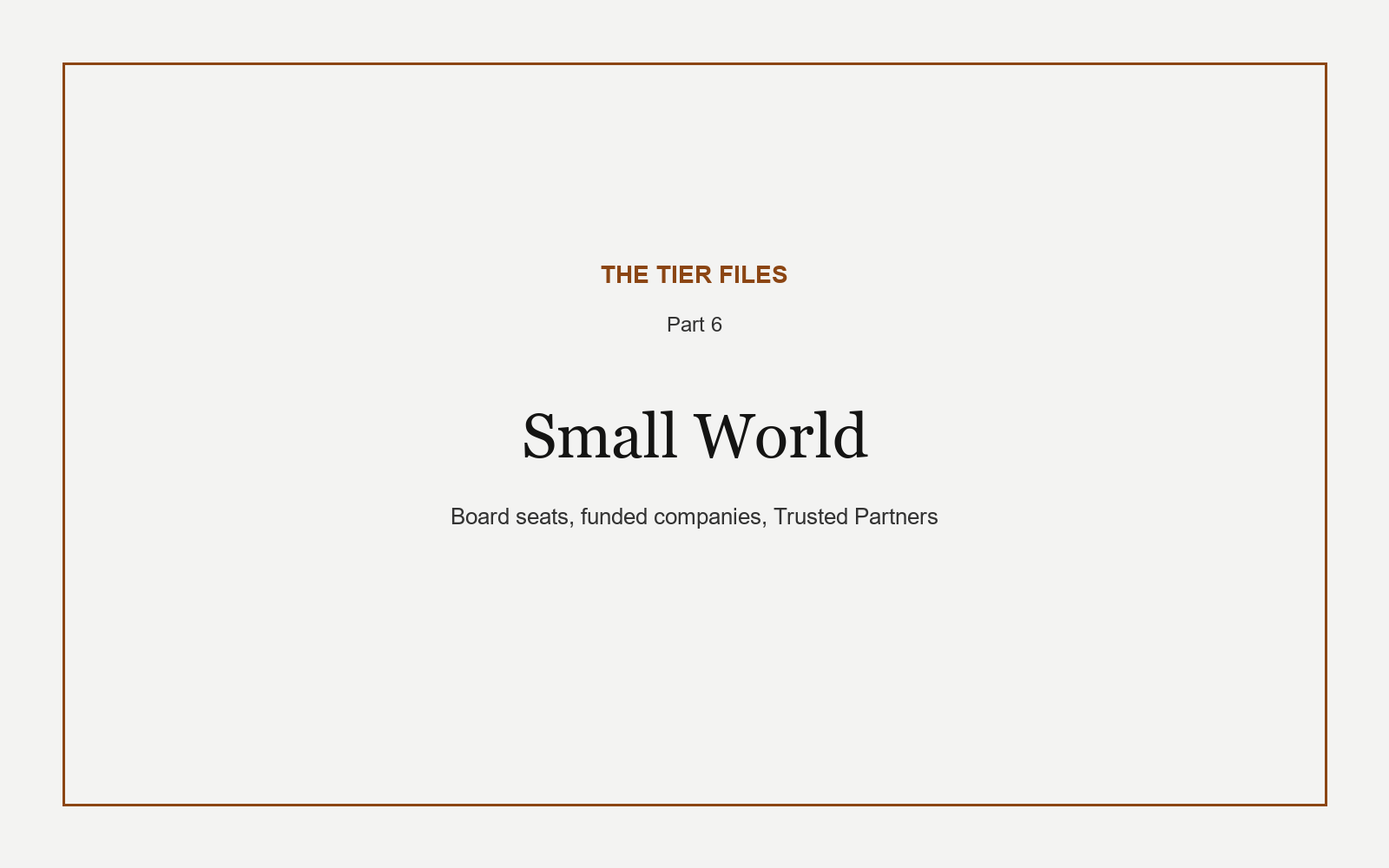
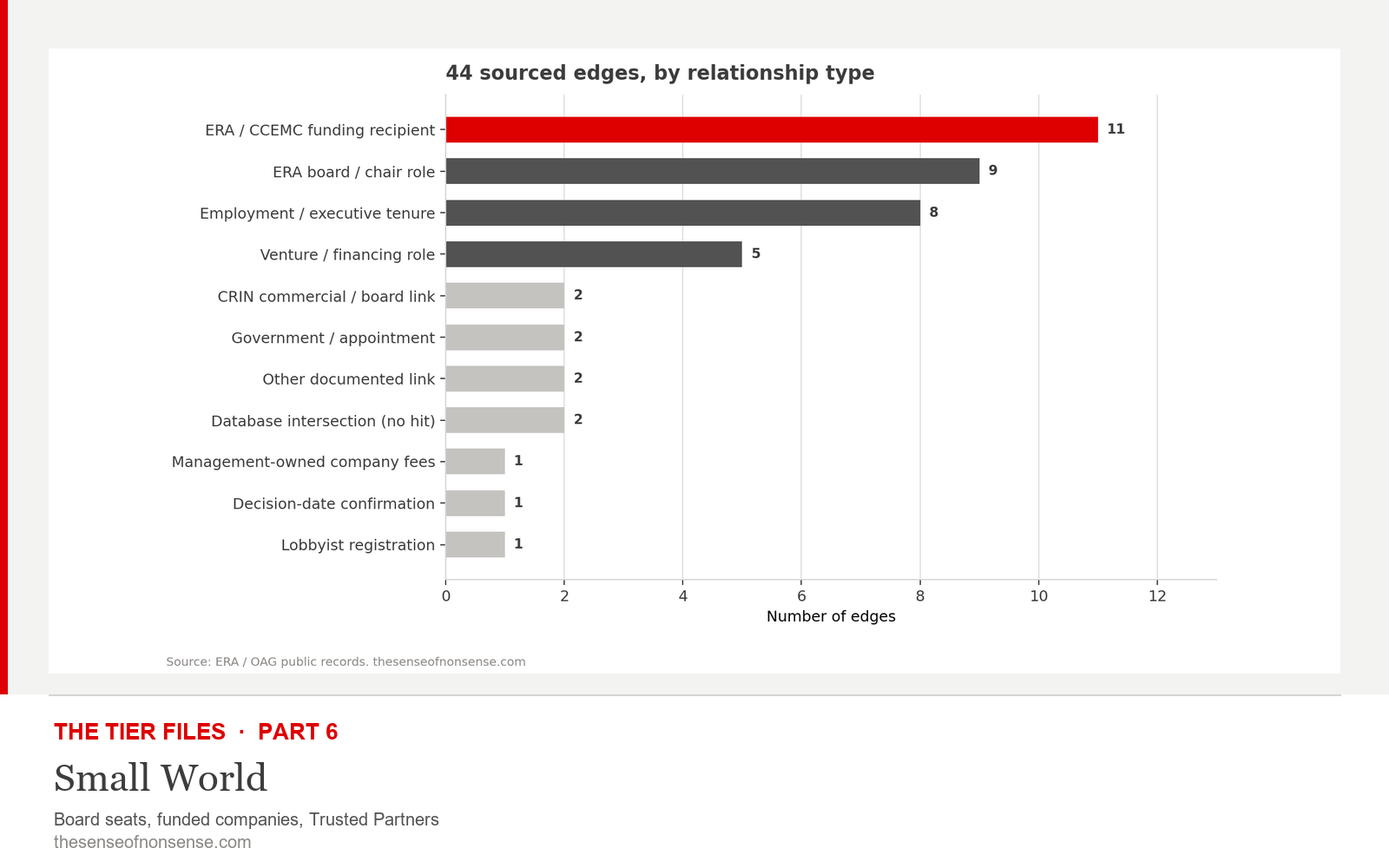
Align both series to the Part 1 standard: pull quotes, teasers, chart palette.
Ghost Lives gains Part 1-style pull quotes and a cleaner series teaser; TIER concession headings match; Parts 5-7 diagrams and covers move from the draft brown/dark palettes to the site red/grey editorial style.

diff --git a/scripts/restyle-p5-p7-charts.py b/scripts/restyle-p5-p7-charts.py
@@ -1,0 +1,235 @@
+"""Restyle Part 5-7 diagrams and covers to the site red/grey editorial palette.
+
+Brings p5-claim-layers, p6-edge-types, p6-pipeline, p7-two-eras, and the
+Part 6 / Part 7 covers in line with the charts in Parts 1-4 and Ghost Lives
+(regen-tier-charts.py style).
+"""
+from __future__ import annotations
+
+from pathlib import Path
+
+import matplotlib.pyplot as plt
+from matplotlib.patches import FancyBboxPatch, FancyArrowPatch
+from PIL import Image, ImageDraw, ImageFont
+
+ROOT = Path(__file__).resolve().parents[1]
+SERIES = ROOT / "content" / "series" / "the-tier-files"
+P5 = SERIES / "part-5-paid-in-alberta-claimed-everywhere"
+P6 = SERIES / "part-6-the-small-world"
+P7 = SERIES / "part-7-the-companies-the-board-pays-itself"
+
+BG = "#FFFFFF"
+WASH = "#F3F3F2"
+INK = "#3C3D3C"
+MUTED = "#8B8783"
+MUTED_LIGHT = "#C5C3C0"
+HIGHLIGHT = "#DE0000"
+SECONDARY = "#525252"
+GRID = "#D6D4D1"
+
+plt.rcParams.update({
+    "font.size": 10,
+    "axes.titlesize": 13,
+    "axes.labelsize": 10,
+    "xtick.labelsize": 10,
+    "ytick.labelsize": 10,
+    "legend.fontsize": 9,
+    "font.family": "sans-serif",
+    "font.sans-serif": ["DejaVu Sans", "Arial", "Helvetica"],
+})
+
+
+def style_ax(ax, title: str):
+    ax.set_facecolor(BG)
+    for spine in ("top", "right"):
+        ax.spines[spine].set_visible(False)
+    ax.spines["left"].set_color(GRID)
+    ax.spines["bottom"].set_color(GRID)
+    ax.tick_params(colors=INK, labelsize=10)
+    ax.set_title(title, loc="left", fontsize=13, fontweight="bold", color=INK, pad=10)
+
+
+def save(fig, path: Path, source: str):
+    fig.patch.set_facecolor(BG)
+    fig.tight_layout(rect=(0, 0.05, 1, 1))
+    fig.text(0.01, 0.012, source, fontsize=8, color=MUTED)
+    fig.savefig(path, dpi=180, facecolor=BG, edgecolor="none")
+    plt.close(fig)
+    print("wrote", path.relative_to(ROOT))
+
+
+def make_cover(chart_path: Path, out: Path, part: int, title: str, subtitle: str = ""):
+    chart = Image.open(chart_path).convert("RGB")
+    W, H = 1600, 1000
+    cover = Image.new("RGB", (W, H), WASH)
+    pad = 56
+    band_h = 200
+    area_w, area_h = W - 2 * pad, H - band_h - pad - 24
+    sw, sh = chart.size
+    scale = min(area_w / sw, area_h / sh)
+    nw, nh = int(sw * scale), int(sh * scale)
+    resized = chart.resize((nw, nh), Image.Resampling.LANCZOS)
+    panel = Image.new("RGB", (area_w, area_h), BG)
+    panel.paste(resized, ((area_w - nw) // 2, (area_h - nh) // 2))
+    cover.paste(panel, (pad, pad))
+    d = ImageDraw.Draw(cover)
+    d.rectangle([0, 0, 8, H], fill=HIGHLIGHT)
+    d.rectangle([0, H - band_h, W, H], fill=BG)
+    d.line([(pad, H - band_h), (W - pad, H - band_h)], fill=GRID, width=2)
+    try:
+        fk = ImageFont.truetype("C:/Windows/Fonts/arialbd.ttf", 26)
+        ft = ImageFont.truetype("C:/Windows/Fonts/georgia.ttf", 44)
+        fs = ImageFont.truetype("C:/Windows/Fonts/arial.ttf", 20)
+    except Exception:
+        fk = ft = fs = ImageFont.load_default()
+    y0 = H - band_h + 28
+    d.text((pad + 6, y0), f"THE TIER FILES  \u00b7  PART {part}", fill=HIGHLIGHT, font=fk)
+    d.text((pad + 6, y0 + 42), title, fill=INK, font=ft)
+    if subtitle:
+        d.text((pad + 6, y0 + 104), subtitle, fill=SECONDARY, font=fs)
+    d.text((pad + 6, H - 42), "thesenseofnonsense.com", fill=MUTED, font=fs)
+    cover.save(out, "PNG", optimize=True)
+    print("wrote", out.relative_to(ROOT))
+
+
+# --- Part 5: claim layers -------------------------------------------------
+fig, ax = plt.subplots(figsize=(10.5, 5.6))
+ax.set_xlim(0, 10)
+ax.set_ylim(0, 8.2)
+ax.axis("off")
+ax.set_title("Who gets to claim the tonne: three paper objects",
+             loc="left", fontsize=14, fontweight="bold", color=INK, pad=8)
+
+layers = [
+    ("1  ERA / provincial program claim",
+     "Portfolio KPI language: funded reductions booked toward Alberta climate results",
+     HIGHLIGHT),
+    ("2  Alberta Emission Offset Registry",
+     "Verified AEOR serials: TIER compliance instruments inside Alberta",
+     SECONDARY),
+    ("3  BC biomethane environmental attributes",
+     "FortisBC BPAs / GGRR: reductions booked into British Columbia climate machinery",
+     INK),
+]
+y = 6.1
+for head, sub, accent in layers:
+    ax.add_patch(FancyBboxPatch((0.55, y), 8.9, 1.7, boxstyle="square,pad=0",
+                                linewidth=1, edgecolor=GRID, facecolor=WASH))
+    ax.add_patch(FancyBboxPatch((0.55, y), 0.14, 1.7, boxstyle="square,pad=0",
+                                linewidth=0, facecolor=accent))
+    ax.text(0.95, y + 1.12, head, fontsize=12, fontweight="bold", color=accent, va="center")
+    ax.text(0.95, y + 0.48, sub, fontsize=9.5, color=INK, va="center")
+    y -= 2.15
+ax.text(5.0, 0.35, "One physical reduction \u00b7 concurrent claim systems \u00b7 no public mass balance between ledgers",
+        ha="center", fontsize=9.5, style="italic", color=SECONDARY)
+save(fig, P5 / "p5-claim-layers.png",
+     "Source: ERA guidelines, AEOR listings, BCUC orders. thesenseofnonsense.com")
+
+# --- Part 6: edge types ---------------------------------------------------
+cats = [
+    ("ERA / CCEMC funding recipient", 11),
+    ("ERA board / chair role", 9),
+    ("Employment / executive tenure", 8),
+    ("Venture / financing role", 5),
+    ("CRIN commercial / board link", 2),
+    ("Government / appointment", 2),
+    ("Other documented link", 2),
+    ("Database intersection (no hit)", 2),
+    ("Management-owned company fees", 1),
+    ("Decision-date confirmation", 1),
+    ("Lobbyist registration", 1),
+]
+fig, ax = plt.subplots(figsize=(10, 5.8))
+style_ax(ax, "44 sourced edges, by relationship type")
+labels = [c[0] for c in cats][::-1]
+vals = [c[1] for c in cats][::-1]
+colors = [MUTED_LIGHT] * len(vals)
+for i in range(len(vals) - 4, len(vals)):
+    colors[i] = HIGHLIGHT if i == len(vals) - 1 else SECONDARY
+ax.barh(labels, vals, color=colors, height=0.62)
+ax.set_xlim(0, 13)
+ax.set_xlabel("Number of edges")
+ax.xaxis.grid(True, color=GRID, linewidth=0.6)
+ax.set_axisbelow(True)
+for i, v in enumerate(vals):
+    ax.text(v + 0.15, i, str(v), va="center", fontsize=9, fontweight="bold", color=INK)
+save(fig, P6 / "p6-edge-types.png",
+     "Source: ERA / OAG public records. thesenseofnonsense.com")
+
+# --- Part 6: pipeline schematic --------------------------------------------
+fig, ax = plt.subplots(figsize=(10.5, 5.0))
+ax.set_xlim(0, 10)
+ax.set_ylim(0, 6.4)
+ax.axis("off")
+ax.set_title("The pipeline: funded ecosystem to the boardroom",
+             loc="left", fontsize=14, fontweight="bold", color=INK, pad=8)
+
+boxes = [
+    (0.55, 3.2, "Builders / funders", "funded cos \u00b7 VC portfolios\nemployers \u00b7 partners", WASH),
+    (3.85, 3.2, "People in the file", "16 named individuals\nin the edge list", "#FBEAEA"),
+    (7.15, 3.2, "ERA board", "directors \u00b7 chairs\nretrospective & concurrent", WASH),
+]
+for x, y, head, sub, face in boxes:
+    ax.add_patch(FancyBboxPatch((x, y), 2.3, 1.9, boxstyle="square,pad=0",
+                                linewidth=1.2, edgecolor=GRID, facecolor=face))
+    ax.text(x + 1.15, y + 1.38, head, ha="center", fontsize=11.5, fontweight="bold", color=INK)
+    ax.text(x + 1.15, y + 0.62, sub, ha="center", fontsize=8.5, color=SECONDARY, linespacing=1.4)
+for x0 in (2.95, 6.25):
+    ax.add_patch(FancyArrowPatch((x0, 4.15), (x0 + 0.8, 4.15),
+                                 arrowstyle="-|>", mutation_scale=18,
+                                 linewidth=2, color=HIGHLIGHT))
+
+ax.add_patch(FancyBboxPatch((0.55, 0.7), 8.9, 1.7, boxstyle="square,pad=0",
+                            linewidth=1, edgecolor=GRID, facecolor=BG))
+stats = [("44 edges", "sourced links"), ("16 people", "in the map"), ("27 orgs", "companies & agencies")]
+for i, (big, small) in enumerate(stats):
+    cx = 2.05 + i * 2.95
+    ax.text(cx, 1.85, big, ha="center", fontsize=15, fontweight="bold", color=HIGHLIGHT)
+    ax.text(cx, 1.15, small, ha="center", fontsize=9, color=SECONDARY)
+save(fig, P6 / "p6-pipeline.png",
+     "Source: ERA / OAG public records. thesenseofnonsense.com")
+
+# --- Part 7: two eras ------------------------------------------------------
+years = ["'10", "'11", "'12", "'13", "'14", "'15", "'16", "'17",
+         "'18", "'19", "'20", "'21", "'22", "'23", "'24", "'25"]
+vals = [2.65, 3.35, 4.31, 5.86, 6.84, None, 4.31, 4.38,
+        0.30, 0.29, 0.29, 0.29, 0.29, 0.33, 0.30, 0.32]
+fig, ax = plt.subplots(figsize=(10.5, 5.6))
+style_ax(ax, "One note, two eras")
+xs = range(len(years))
+for i, v in enumerate(vals):
+    if v is None:
+        ax.text(i, 0.12, "n/p", ha="center", fontsize=8, color=MUTED)
+        continue
+    color = SECONDARY if i <= 7 else HIGHLIGHT
+    ax.bar(i, v, 0.62, color=color)
+    ax.text(i, v + 0.12, f"{v:.2f}", ha="center", fontsize=7.5, color=INK,
+            fontweight="bold" if i > 7 else "normal")
+# 7.07 as first reported, dashed outline over the restated '13 bar
+ax.bar(3, 7.07, 0.62, fill=False, edgecolor=MUTED, linestyle="--", linewidth=1.2)
+ax.text(3, 7.22, "7.07 as first reported", ha="center", fontsize=8, color=MUTED)
+ax.annotate(
+    "FY2018 statements restate the 2017\ncomparative to $0.32M, a 93% cut,\nwith no reconciliation",
+    xy=(7.6, 0.6), xytext=(9.2, 4.6),
+    fontsize=9, color=HIGHLIGHT, linespacing=1.4,
+    arrowprops=dict(arrowstyle="->", color=HIGHLIGHT, lw=1.3),
+)
+ax.set_xticks(list(xs))
+ax.set_xticklabels(years)
+ax.set_ylabel("$ millions, fees disclosed in the note")
+ax.set_ylim(0, 8.2)
+ax.yaxis.grid(True, color=GRID, linewidth=0.6)
+ax.set_axisbelow(True)
+ax.text(3.5, -1.25, "contract management era: the whole function, outsourced",
+        ha="center", fontsize=9, color=SECONDARY, transform=ax.transData, clip_on=False)
+ax.text(11.5, -1.25, '"companies owned by senior management"',
+        ha="center", fontsize=9, color=HIGHLIGHT, transform=ax.transData, clip_on=False)
+save(fig, P7 / "p7-two-eras.png",
+     "Source: CCEMC/ERA audited statements, remuneration notes. FY2015 not published (n/p). thesenseofnonsense.com")
+
+# --- Covers ----------------------------------------------------------------
+make_cover(P6 / "p6-edge-types.png", P6 / "cover.png", 6, "Small World",
+           "Board seats, funded companies, Trusted Partners")
+make_cover(P7 / "p7-two-eras.png", P7 / "cover.png", 7, "Companies the Board Pays Itself",
+           "Fifteen years of one remuneration note")
+print("done")

diff --git a/content/series/the-tier-files/part-5-paid-in-alberta-claimed-everywhere/index.md b/content/series/the-tier-files/part-5-paid-in-alberta-claimed-everywhere/index.md
@@ -61,7 +61,7 @@ Lacombe is messier, and honesty requires saying so. FEI's table has a Lacombe BP
 
 Central Farms RNG, a $10 million Contribution Agreement on ERA's current list, does not appear in the BCUC table yet. It belongs in the same *class* of project: pipeline-grade renewable gas is an attribute product by design. Watch the dockets.
 
-### Two track attribute policy, one public silence
+### Two-track attribute policy, one public silence
 
 Here is the part that made me re-read the contribution language twice.
 
@@ -93,7 +93,7 @@ Read that slowly. The provincial plan admits the shipment. The industry associat
 
 There are at least three paper objects people conflate when they talk about "double counting."
 
-![Stacked schematic of three claim layers on the same reduction: ERA or provincial program KPI language, Alberta Emission Offset Registry serials, and British Columbia biomethane environmental attributes under FortisBC BPAs.](p5-claim-layers.png?v=1)
+![Stacked schematic of three claim layers on the same reduction: ERA or provincial program KPI language, Alberta Emission Offset Registry serials, and British Columbia biomethane environmental attributes under FortisBC BPAs.](p5-claim-layers.png?v=2)
 
 *Three paper objects. One atmosphere.*
 
@@ -172,7 +172,7 @@ Because it was the one place in the audited package where a reader could see, wi
 
 (I do not yet have the FY2025 statements in hand for this check. When they land, I will look for the sentence.)
 
-### The concession paragraph
+### Concession
 
 Displacement contracts and multi-jurisdiction RNG are ordinary market design. Molecules travel by contract rather than passport, AECO/NIT is a real trading hub, and BC's regulator has repeatedly accepted out-of-province biomethane under its reading of the GGRR. A digester in Lethbridge that keeps manure methane out of the air is doing real atmospheric work wherever the attribute certificate ends up. Innovation funders everywhere fund technology that later sells into someone else's compliance market. Small provinces share infrastructure. Expertise concentrates. None of that is invented for this series.
 
@@ -203,8 +203,8 @@ Next: the small world of who sits on the board, who gets funded, and what the pu
 11. ERA project database scrape used for this series (working extract held with the investigation notes), including Central Farms RNG ($10M, Contribution Agreement). Live browse: [eralberta.ca/projects/](https://www.eralberta.ca/projects/).
 12. ERA audited / summary financial statements and annual reports, years ended May 31, 2018 through 2022: out-of-province project expense and commitment notes as tabulated above. PDFs: [eralberta.ca annual reports](https://www.eralberta.ca/). FY2022 note text as quoted from FY2022 FS / 2021-22 AR.
 13. ERA Financial Statements FY2023 and FY2024 (standalone PDFs on eralberta.ca): geographic "outside of Alberta" project-expense disclosure absent from extracted text.
-14. ERA Energy Savings for Business Expanded Technologies Pilot Guidelines Â§8 (Environmental Attributes) and Contribution Agreement template Â§15.1. [eralberta.ca](https://www.eralberta.ca/wp-content/uploads/2022/02/Guidelines.pdf); [template PDF](https://www.eralberta.ca/wp-content/uploads/2022/02/Contribution-Agreement-Template.pdf)
-15. ERA Methane Reduction Deployment Program Guide Â§3.4 (Environmental Attributes). [eralberta.ca](https://www.eralberta.ca/wp-content/uploads/2026/01/MRDP-Program-Guide-v3.2-Apr-2026.pdf)
+14. ERA Energy Savings for Business Expanded Technologies Pilot Guidelines §8 (Environmental Attributes) and Contribution Agreement template §15.1. [eralberta.ca](https://www.eralberta.ca/wp-content/uploads/2022/02/Guidelines.pdf); [template PDF](https://www.eralberta.ca/wp-content/uploads/2022/02/Contribution-Agreement-Template.pdf)
+15. ERA Methane Reduction Deployment Program Guide §3.4 (Environmental Attributes). [eralberta.ca](https://www.eralberta.ca/wp-content/uploads/2026/01/MRDP-Program-Guide-v3.2-Apr-2026.pdf)
 16. ERA SEMI FAQ ("Does ERA keep the environmental attributes?"). [eralberta.ca/semi/frequently-asked-questions](https://www.eralberta.ca/semi/frequently-asked-questions/)
 17. ERA Oil Sands Innovation Challenge guidelines (2017): ERA will not match offset credits or EPCs associated with the project. [eralberta.ca PDF](https://www.eralberta.ca/wp-content/uploads/2017/07/ERA-Oil-Sands-Innovation-Challenge-2017-07-28.pdf)
 18. AEOR public listing header (416 projects as of research pull). [alberta.csaregistries.ca](https://alberta.csaregistries.ca/GHGR_Listing/AEOR_Listing.aspx)
@@ -214,6 +214,6 @@ Next: the small world of who sits on the board, who gets funded, and what the pu
 22. BioAlberta, *Bioenergy Position Paper* (2023): attributes used in other jurisdictions "does not benefit Alberta's decarbonization ambitions when they are used elsewhere." [bioalberta.com PDF](https://bioalberta.com/wp-content/uploads/2023/08/BioAlberta-Bioenergy-Position-Paper.pdf)
 23. ERA Call 15 / Industrial Transformation Challenge EOI Guidelines and FAQs (2025-2026): Non-GHG / Economic & Environmental Benefits scoring weights; outcomes reporting clause; third-party verification report one year after commissioning "to verify the emissions reductions"; jobs "collected and publicly reported." [eralberta.ca](https://www.eralberta.ca/)
 24. ERA annual and stewardship reports (2021-22 through Mar 2026 stewardship): Alberta Innovates Economic Impact Analysis person-year job and GDP aggregates. [eralberta.ca](https://www.eralberta.ca/)
-25. Environment and Climate Change Canada, Low Carbon Economy Challenge Applicant Guide 2023 Â§Â§3.3.5-3.3.6: own-use fuel rules; sold low-carbon fuel treated as Scope 3 and out of scope for the Challenge GHG workbook. [canada.ca](https://www.canada.ca/en/environment-climate-change/services/climate-change/low-carbon-economy-fund/challenge/applicant-guide-2023.html)
-26. Natural Resources Canada, Clean Fuels Fund / Building new domestic production capacity applicant guide Â§3.2.1: government credit values (offsets and regulations) included in project profit and repayability. [natural-resources.canada.ca](https://natural-resources.canada.ca/energy-sources/clean-fuels/building-new-domestic-production-capacity-general-stream-applicant-guide)
+25. Environment and Climate Change Canada, Low Carbon Economy Challenge Applicant Guide 2023 §§3.3.5-3.3.6: own-use fuel rules; sold low-carbon fuel treated as Scope 3 and out of scope for the Challenge GHG workbook. [canada.ca](https://www.canada.ca/en/environment-climate-change/services/climate-change/low-carbon-economy-fund/challenge/applicant-guide-2023.html)
+26. Natural Resources Canada, Clean Fuels Fund / Building new domestic production capacity applicant guide §3.2.1: government credit values (offsets and regulations) included in project profit and repayability. [natural-resources.canada.ca](https://natural-resources.canada.ca/energy-sources/clean-fuels/building-new-domestic-production-capacity-general-stream-applicant-guide)
 27. Clean Fuel Regulations (SOR/2022-140) ss.118-119 and ECCC compliance guidance: compliance-fund credits created by contribution to a registered funding program cannot be traded and expire if unused for that compliance period. [canada.ca](https://www.canada.ca/en/environment-climate-change/services/managing-pollution/energy-production/fuel-regulations/clean-fuel-regulations/compliance.html)

diff --git a/content/series/ghost-lives/part-1-what-the-premium-buys/index.md b/content/series/ghost-lives/part-1-what-the-premium-buys/index.md
@@ -70,6 +70,8 @@ That last clause is the one that opens the door.
 
 From FortisBC's own filings, a single acquired reduction can carry, at the same time, multiple monetizable or reportable claims. Not every gigajoule carries every claim. The architecture permits the stack.
 
+> **The same gigajoule can charge a premium, earn a carbon-tax refund, and back a federal fuel credit, all on FortisBC's own filings.**
+
 **Claim 1: the voluntary premium.** The customer pays $7 to $8.66/GJ above conventional gas and is told the environmental attributes attach to their consumption.
 
 **Claim 2: the mandatory blend.** Every sales customer funds a share of renewable gas costs through rate mechanisms approved in the Stage 2 review (including the S&T LC / RNG rider structure). As of July 2026 that share is framed as a 3.5 per cent designation.
@@ -100,6 +102,8 @@ FortisBC tells the Commission it does not receive environmental certificates tha
 
 That may satisfy the Regulation's wording. It does not give a citizen a serial number. There is no public registry, yet, that would let a Vancouver ratepayer match the gigajoules on their bill to an unsold-elsewhere tonne at a Lethbridge digester. FortisBC says industry and government are working on a Canadian registry (CLEER and related workstreams appear in the IR record). Until that exists, retirement is an accounting entry inside the utility, overseen through Commission filings, not a publicly inspectable certificate cancellation.
 
+> **Retirement is an accounting entry inside the utility, not a certificate a citizen can check.**
+
 ### What the Commission is actually asking
 
 G-137-25 is not a prosecution. It is a definition and accounting inquiry. The questions go to the intent of the GGRR, the adequacy of compliance requirements against cross-border double counting, and whether further out-of-province acquisitions remain consistent with the Regulation.
@@ -124,9 +128,9 @@ What the premium buys is a place in that stack. Whether it buys a unique tonne i
 
 ![Comic finale: one molecule, five ghost lives.](comic-finale.png?v=1)
 
-*Next issue: follow the gram from the lagoon through every ghost.*
+*One molecule, five ghost lives. The gram's full journey is the next instalment.*
 
-Next: follow one gram of CO2e from an Alberta lagoon through every ghost life the paper assigns it, and ask where stacking ends.
+Next: where stacking ends.
 
 ---
 

diff --git a/content/series/ghost-lives/part-2-where-stacking-ends/index.md b/content/series/ghost-lives/part-2-where-stacking-ends/index.md
@@ -76,6 +76,8 @@ At the same time, provincial and ERA materials continue to cite portfolio emissi
 
 That is quasi-stacking. Alberta is not necessarily issuing a second tradable offset on the same serial that FortisBC retires. It is keeping a *program and policy claim* on a reduction whose marketable environmental attribute has been sold into another jurisdiction's machinery. Part 5 called this the double-claim problem that does not require matching a serial to a gigajoule. It requires only what the province already wrote: attributes leave, and funded reductions stay on Alberta's accounts.
 
+> **The funded tonne stays on Alberta's scoreboard. The transferable attribute leaves. Both stories count the same gram.**
+
 From the gram's point of view: Life 2 is a sentence in a plan, a line in a grant KPI, sometimes a registry serial that may or may not still be live for overlapping vintages. The gram has already done its atmospheric work. Alberta is still counting it toward Alberta's story.
 
 ### Life 3: British Columbia's attribute purchase
@@ -130,7 +132,7 @@ Life 5 is another tradable credit, this time inside BC's transportation fuel mar
 
 *Where stacking ends is a policy choice, not a law of physics.*
 
-It ends where the paper runs out of markets, not where the atmosphere runs out of room.
+> **Stacking ends where the paper runs out of markets, not where the atmosphere runs out of room.**
 
 A single avoided methane gram (expressed as CO2e) can, under the architectures described in public filings and regulations, support:
 
@@ -182,6 +184,8 @@ Methane is captured once. Alberta can still claim the funded project. British Co
 Where stacking ends is not a law of physics. It is a choice about whether uniqueness is required before a tonne may be sold, booked, refunded, and credited again. The public file, from Edmonton through the BCUC docket to the CFR credit market, still does not publish a single ledger that would let a reader watch one gram retire from every life at once.
 
 Until that ledger exists, the molecule will keep doing one job while the paper assigns it several.
+
+G-137-25 is still open. When the Commission answers its own double-counting question, I will read the answer here.
 
 ---
 

diff --git a/content/series/the-tier-files/part-6-the-small-world/index.md b/content/series/the-tier-files/part-6-the-small-world/index.md
@@ -32,7 +32,7 @@ Once you have seen one of those walks, you start looking for the next.
 
 The method is dull on purpose. Every person named below appears on ERA's board page, in an ERA media release, or in a remuneration note. Every funded-company link comes from ERA's WordPress project database (469 records as scraped), matched to those bios and to portfolio pages the venture firms publish themselves. Every commercial link to another organization comes from ERA's audited statements. Each edge gets a date range where the source allows one, and a confidence note where it does not. Connection is the finding. Causation is a different claim, and this piece does not make it.
 
-![Horizontal bars of 44 sourced network edges grouped by relationship type, led by ERA and CCEMC funding-recipient links, then board and chair roles, employment tenure, and venture financing roles.](p6-edge-types.png?v=1)
+![Horizontal bars of 44 sourced network edges grouped by relationship type, led by ERA and CCEMC funding-recipient links, then board and chair roles, employment tenure, and venture financing roles.](p6-edge-types.png?v=2)
 
 *How the forty-four edges sort when you stop reading them one at a time.*
 
@@ -40,7 +40,7 @@ Challenge-announcement dates for the three original retrospective edges are now 
 
 ### The pipeline to the boardroom
 
-![Schematic of the pipeline from builders and funders through named people in the edge list to the ERA board, with summary counts of 44 edges, 16 people, and 27 organizations.](p6-pipeline.png?v=1)
+![Schematic of the pipeline from builders and funders through named people in the edge list to the ERA board, with summary counts of 44 edges, 16 people, and 27 organizations.](p6-pipeline.png?v=2)
 
 *Builders and funders first; directors later. Forty-four sourced edges on the map.*
 

diff --git a/content/series/the-tier-files/part-7-the-companies-the-board-pays-itself/index.md b/content/series/the-tier-files/part-7-the-companies-the-board-pays-itself/index.md
@@ -31,7 +31,7 @@ The fees, as disclosed: $2.65 million in fiscal 2010, then $3.35 million, then $
 
 You can defend this design, and people did. A new fund wants to move fast, hiring public-sector staff is slow, and buying an experienced management team off the shelf gets money flowing in year one instead of year three. Fine. But hold the structure in your head for a second: a board, and reporting directly to that board, private companies being paid millions a year to be the organization. There is no layer in that arrangement where an employee with a duty to the institution sits between the governors and the vendors, because the vendors are the institution.
 
-![Bar chart of fees disclosed in the remuneration note, fiscal 2010 through 2025: millions per year to board-reporting contract management through 2017, then a sudden drop to roughly 300 thousand per year to companies owned by senior management, with the fiscal 2013 as-first-reported figure and the unexplained 93 per cent restatement of the 2017 comparative annotated.](p7-two-eras.png?v=1)
+![Bar chart of fees disclosed in the remuneration note, fiscal 2010 through 2025: millions per year to board-reporting contract management through 2017, then a sudden drop to roughly 300 thousand per year to companies owned by senior management, with the fiscal 2013 as-first-reported figure and the unexplained 93 per cent restatement of the 2017 comparative annotated.](p7-two-eras.png?v=2)
 
 *One recurring note, two eras, and a restatement in the middle that nobody explained.*
 

diff --git a/content/series/the-tier-files/part-2-the-eight-million-dollar-regulator/index.md b/content/series/the-tier-files/part-2-the-eight-million-dollar-regulator/index.md
@@ -75,7 +75,7 @@ Meanwhile the workload keeps arriving. On December 3, 2025 the regulation was am
 
 And consider what the branch is actually refereeing now, because the market has not stood still while its budget did. When TIER launched in January 2020 the fund price was $30 a tonne and compliance meant credits, offsets, or cash. Six years later the price has tripled, the credit bank has ballooned into structural oversupply, and the instrument list has grown to five classes: emission performance credits, emission offsets, sequestration credits, and now investment credits and reactivated credits, the last two invented in December 2025 and still waiting on their governing standard. Every new instrument is a new integrity surface, a new thing that can be gamed, double-counted, or misquantified, and every one of them lands on the same desk with the same $10,541,000. All of that lands on program 9.1, which will have, per the current estimates, exactly $10,541,000 to do it with. Again.
 
-### The concession paragraph
+### Concession
 
 To be fair about it, a small regulatory budget is not automatically a scandal, and I'd rather have a lean competent branch than a bloated incoherent one. Government departments underspend lines for boring reasons all the time, vacancies mostly, and a vacancy is sometimes just a vacancy. It is also true that some functions, like the registry, are contracted out and show up in other places.
 

diff --git a/content/series/the-tier-files/part-3-the-climate-fund-that-became-a-bank/index.md b/content/series/the-tier-files/part-3-the-climate-fund-that-became-a-bank/index.md
@@ -73,7 +73,7 @@ One more thing the statements disclose, almost in passing: 96 per cent of ERA's 
 
 That date has now passed. ERA is plainly still operating, still announcing challenges, still receiving allocations, so something was signed or extended. But as of this writing, nothing about the renewal terms has been published anywhere I can find, which means the single document governing the largest pool of climate money in the province, the one that was amended in 2024 to add the interest clawback, was renegotiated sometime this spring entirely out of view. The new terms will surface eventually in the fiscal 2026 statements, due this fall, and when they do I'll read them, because the interesting question is whether the province tightened the leash or lengthened it.
 
-### The concession paragraph
+### Concession
 
 The fair reading, and it deserves saying properly: an agency funding multi-year capital projects genuinely needs reserves, because a demonstration plant announced today draws its money over five years and you'd rather the money exist. Milestone-based payments are prudent. Earning interest on committed-but-undisbursed funds beats earning nothing, and every dollar of that $84 million is disclosed, audited, and now partially recaptured by the province.
 
